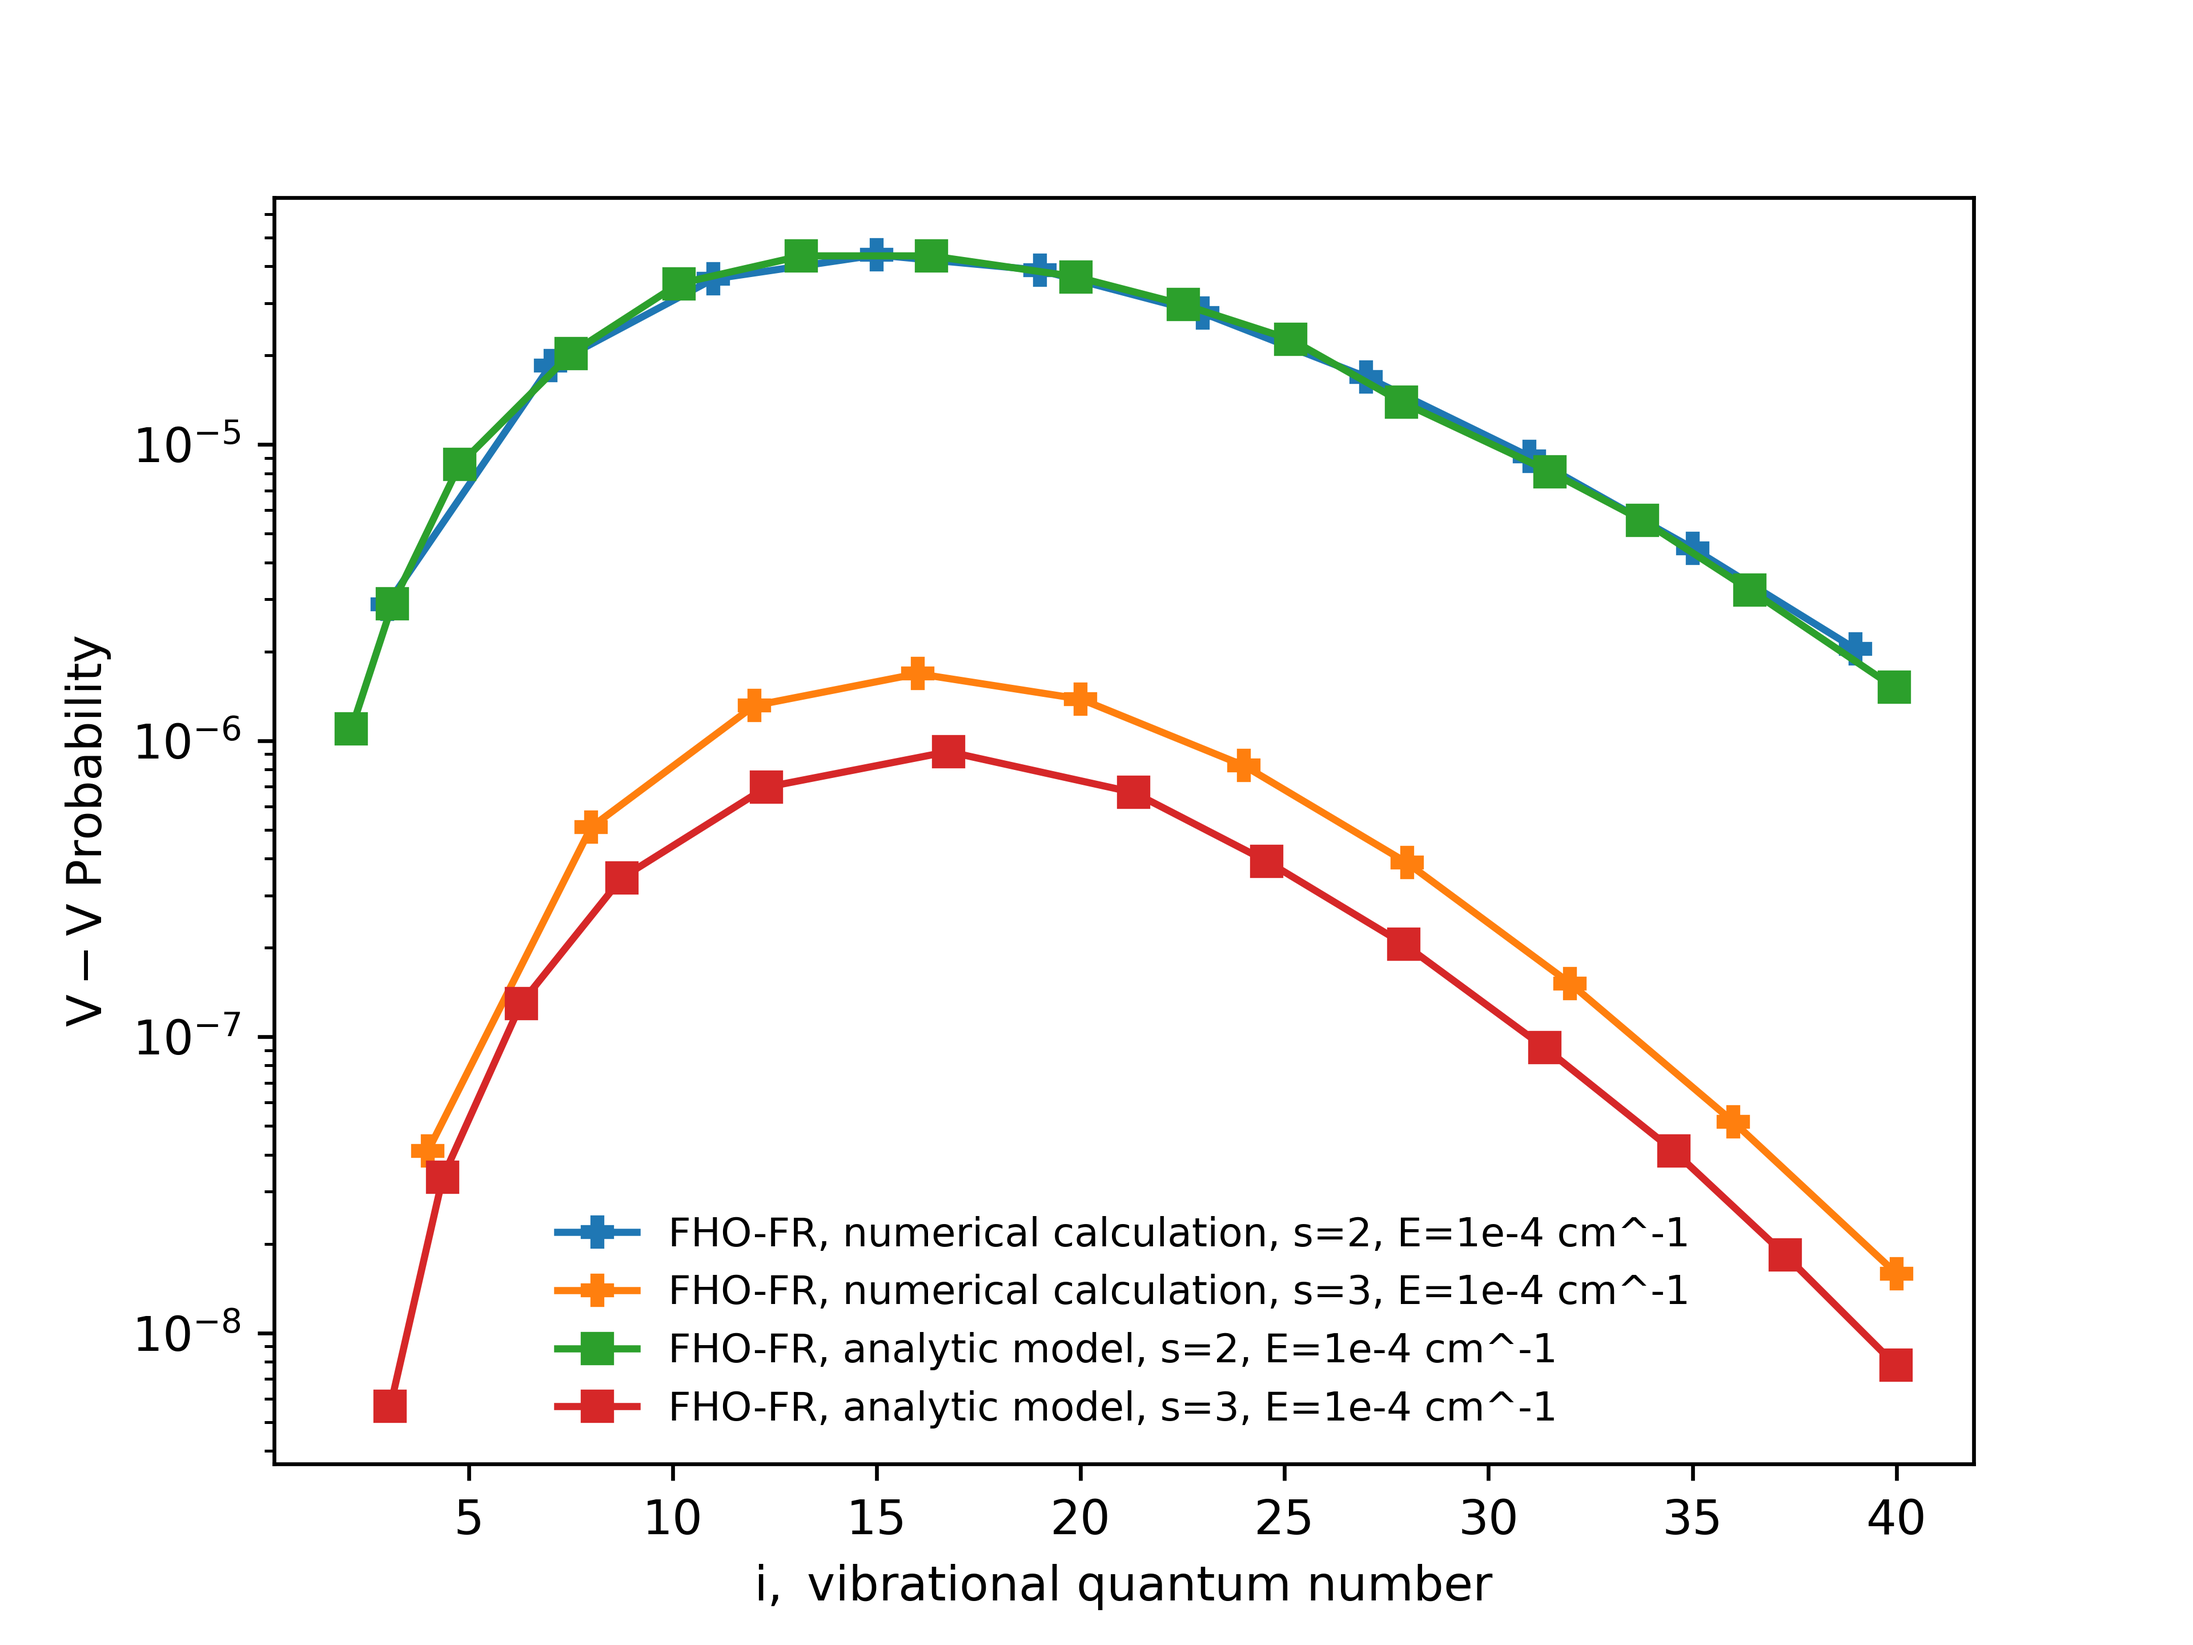
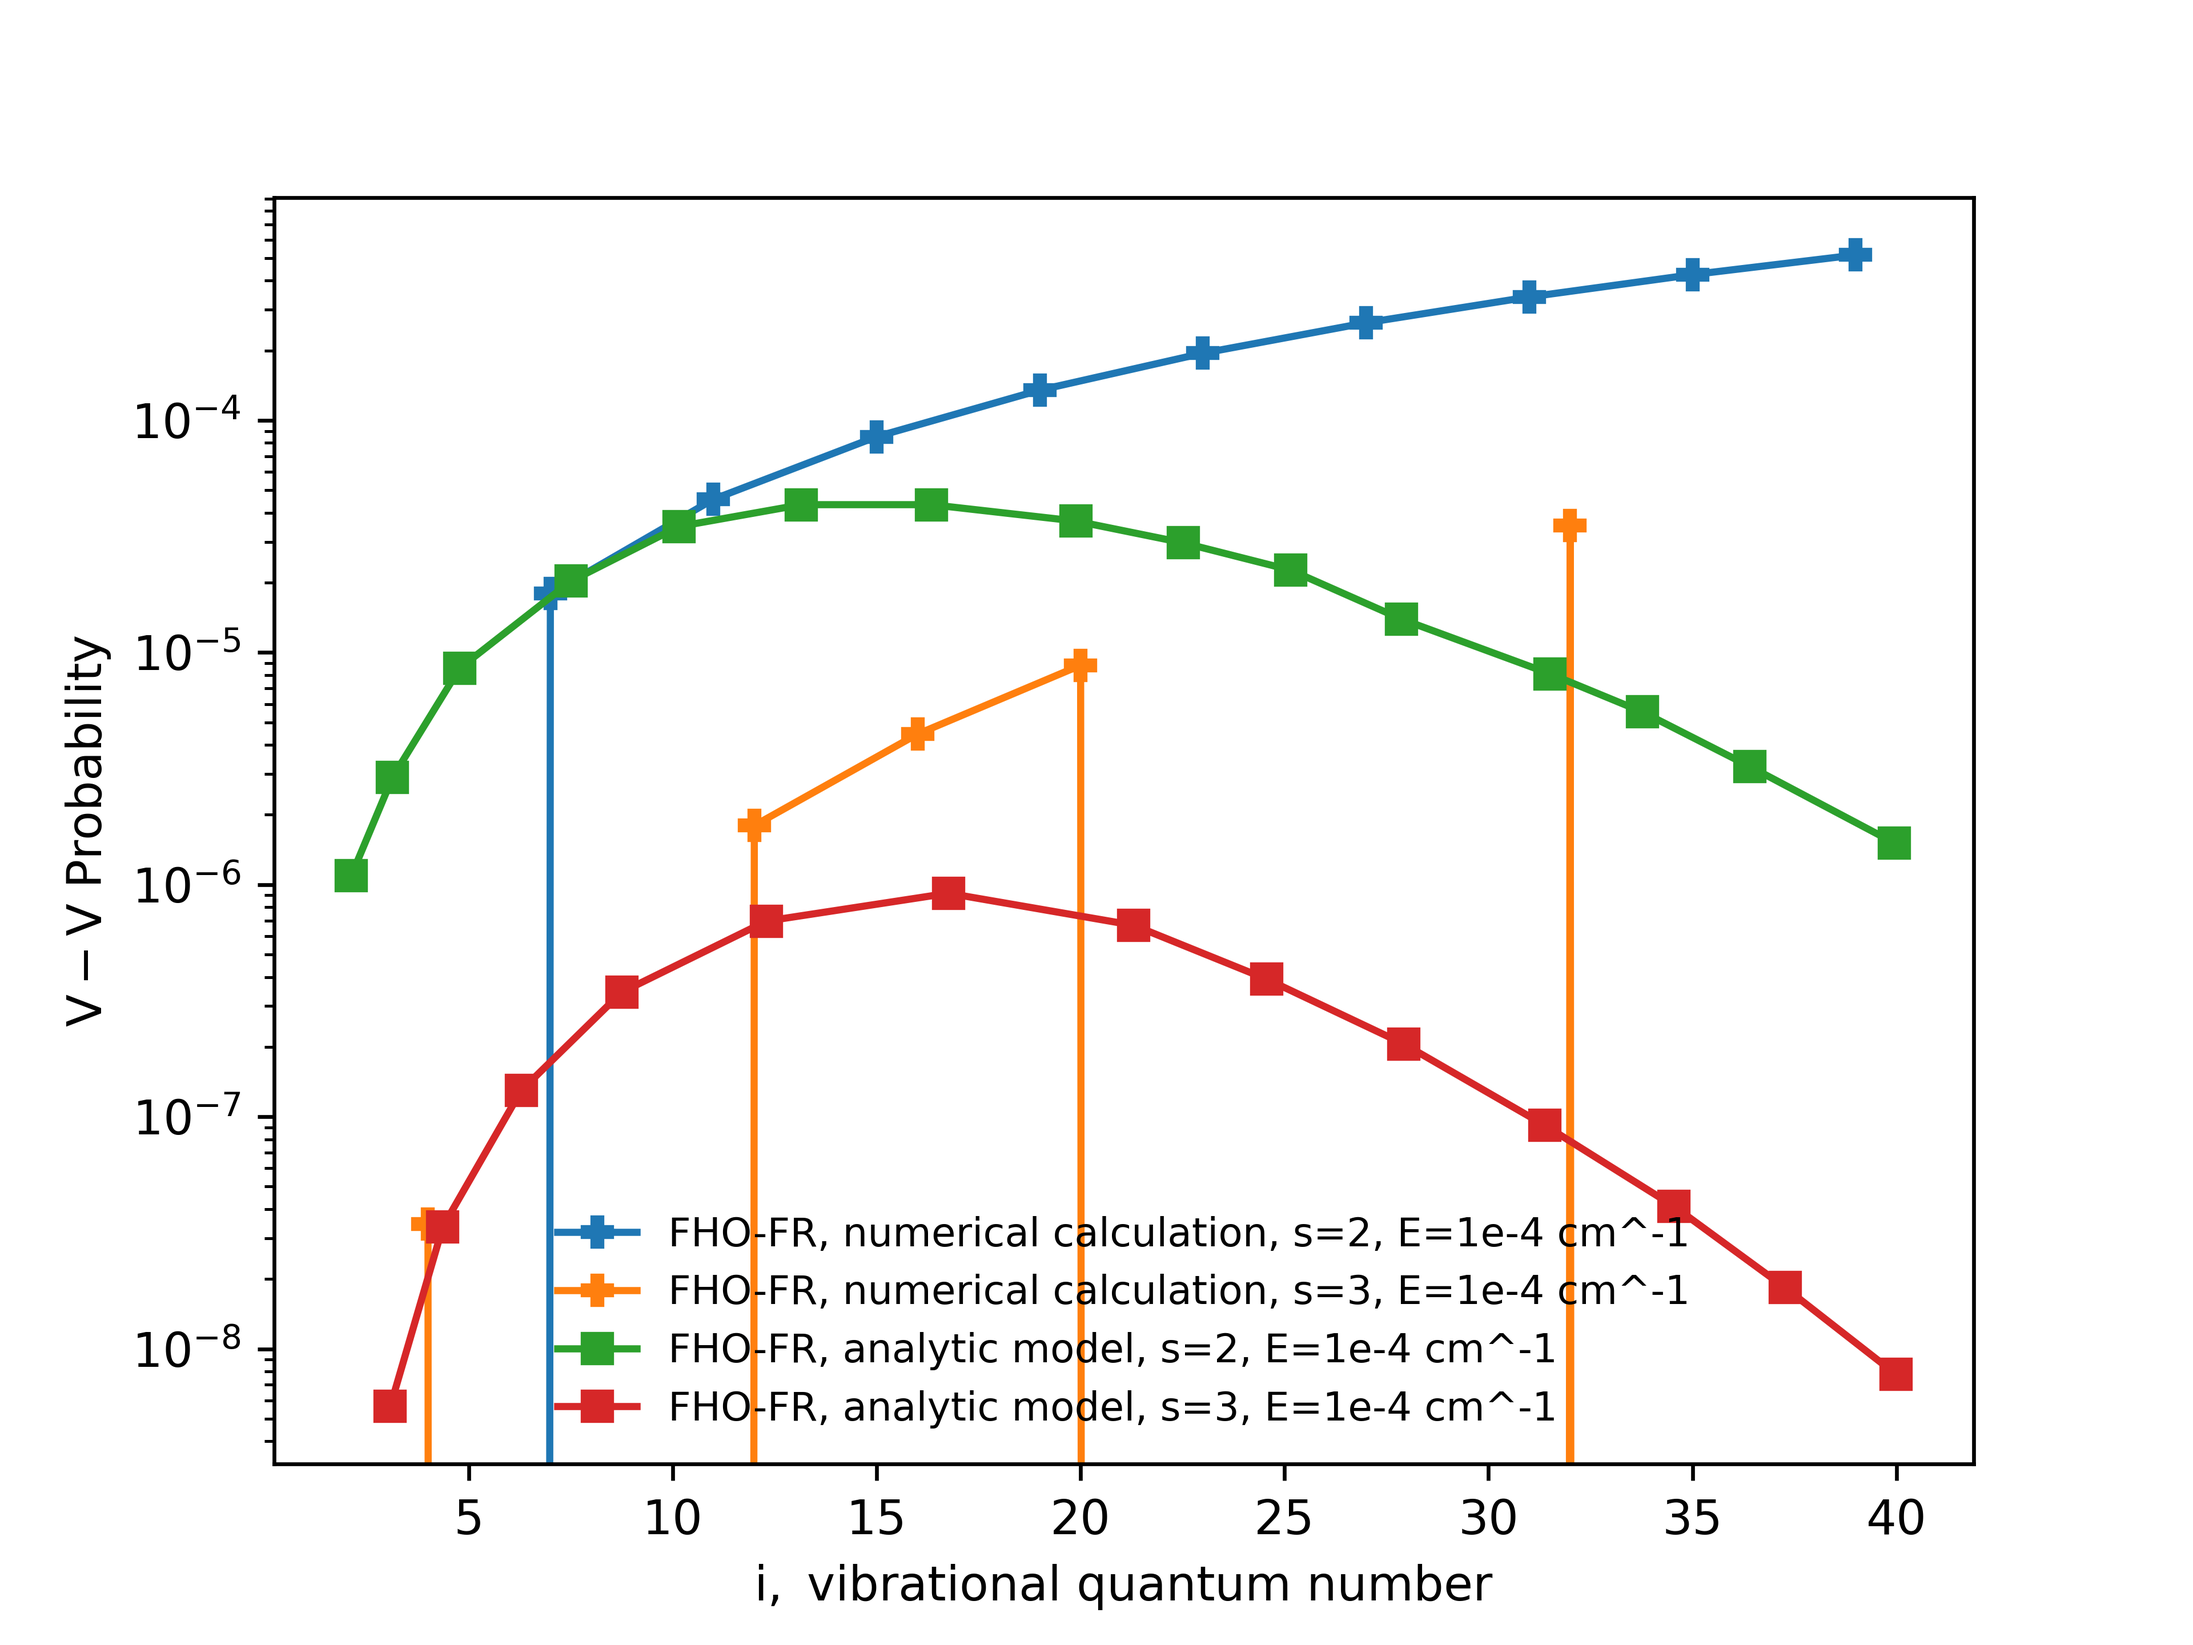
upd

diff --git a/FHO_FR_VV/k_vv_mm.py b/FHO_FR_VV/k_vv_mm.py
@@ -7,21 +7,48 @@ from scipy.special import factorial, gamma
 from FHO_FR_VV.p_vv_mm import *
 from FHO_FR_VV.constants import *
 
-def get_crossection_VSS(velocity: float, collision_reduced_mass: float, VSS_data: VSSData):
-    gref = np.sqrt(2 * k * VSS_data.Tref / collision_reduced_mass) # Reference velocity, m/s
-    return np.pi * VSS_data.dref**2 * (velocity / gref) ** (1 - 2 * VSS_data.omega) / gamma(2.5 - VSS_data.omega)
+# def get_crossection_VSS(velocity: float, collision_reduced_mass: float, VSS_data: VSSData):
+#     gref = np.sqrt(2 * k * VSS_data.Tref / collision_reduced_mass) # Reference velocity, m/s
+#     return np.pi * VSS_data.dref**2 * (velocity / gref) ** (1 - 2 * VSS_data.omega) / gamma(2.5 - VSS_data.omega)
 
-def integrand(x_array, *args):
+# def integrand(x_array, *args):
+#     m1, m2, i1, f1, i2, f2, T_inv_cm = args
+#
+#     # print(x_array.shape)
+#
+#     x_array = np.atleast_1d(x_array)
+#     results = np.zeros_like(x_array)
+#     for idx, x in enumerate(x_array):
+#         E = x * T_inv_cm
+#         results[idx] = p_vv_int(m1, m2, i1, f1, i2, f2, E, 'trapez')
+#     return results * np.exp(-x_array) * np.power(x_array, 3)
+
+
+def integrand(x, *args):
     m1, m2, i1, f1, i2, f2, T_inv_cm = args
 
-    # print(x_array.shape)
+    E = x * T_inv_cm
+    pvv_result = p_vv_int(m1, m2, i1, f1, i2, f2, E, 'trapez')
 
-    x_array = np.atleast_1d(x_array)
-    results = np.zeros_like(x_array)
-    for idx, x in enumerate(x_array):
-        E = x * T_inv_cm
-        results[idx] = p_vv_int(m1, m2, i1, f1, i2, f2, E, 'trapez')
-    return np.power(x_array, 3) * results * np.exp(-x_array)
+    return pvv_result * np.exp(-x) * np.power(x, 3)
+
+
+# def integrand1(x_array, *args):
+#     m1, m2, i1, f1, i2, f2, T_inv_cm = args
+#
+#     m = (m1.mass * m2.mass) / (m1.mass + m2.mass)
+#     x_array = np.atleast_1d(x_array)
+#     probability = np.zeros_like(x_array)
+#     crossection = np.zeros_like(x_array)
+#
+#     for idx1, x1 in enumerate(x_array):
+#         E = np.power(x1, 2) * m / 2
+#         probability[idx1] = p_vv_int(m1, m2, i1, f1, i2, f2, E, 'trapez')
+#
+#     for idx2, x2 in enumerate(x_array):
+#         crossection[idx2] = get_crossection_VSS(x2, m)
+#
+#     return crossection * probability * np.exp(-np.power(x_array, 2) * m / 2 * k * T_inv_cm) * x_array
 
 
 def k_vv_mm(m1, m2, i1, f1, i2, f2, T):
@@ -63,15 +90,17 @@ def k_vv_mm(m1, m2, i1, f1, i2, f2, T):
 
     else:
         args = (m1, m2, i1, f1, i2, f2, T_inv_cm)
+        args1 = (m1, m2, i1, f1, i2, f2, T_K)
         result, error = quad(integrand, 0, np.inf, args=args, epsabs=1e-15, limit=1000)
+        #result1, error1 = quad(integrand1, 0, np.inf, args=args1, epsabs=1e-15, limit=1000)
         # print(error)
 
         # result1 = quad(integrand, 0, 1e10, args=args)
         # result2 = quad(integrand, 1e6, np.inf, args=args)[0]
         # result = result1 + result2
 
-        k_vv = np.pi * (r ** 2) * mean_u * result * 1e6 / 2  # sm^3/s
-        # k_vv = (r ** 2) * mean_u * result * 1e6 / 2  # sm^3/s
+        k_vv = np.pi * (r ** 2) * mean_u * result * 1e6  # sm^3/s
+        #k_vv = np.pi * (r ** 2) * mean_u * result * 1e6   # sm^3/s
 
         return k_vv
 

diff --git a/FHO_FR_VV/particles_data.py b/FHO_FR_VV/particles_data.py
@@ -39,12 +39,14 @@ N2.num_elex_levels = 1                     # number of electronical levels
 N2.num_vibr_levels = [47]                  # number of vibrational levels
 N2.mass = 4.651236272601599e-26            # molecular mass, kg
 N2.diameter = 3.4039e-10                   # m
-N2.we = [235857]                           # DB, 1/m
-N2.wexe = [1432]
+N2.we = [235960]                           # DB, 1/m
+N2.wexe = [1445.6]
 N2.weye = [-0.226]
 
 e_i = levels_e_ex(N2, 0)
 N2.add_ev_i(e_i-e_i[0])
+
+
 
 # print(N2.mass)
 # print(e_i)
@@ -67,38 +69,26 @@ N2.add_ev_i(e_i-e_i[0])
 # print(m1 == m2)
 
 
-class VSSData:
-    def __init__(self, dref, Tref, omega):
-        self.dref = dref  # Reference diameter, m
-        self.Tref = Tref  # Reference temperature, K
-        self.omega = omega  # Viscosity temperature exponent
-
-    def __repr__(self):
-        return f"VSS_data(dref={self.dref:.3e} m, Tref={self.Tref} K, omega={self.omega})"
 
 
-# База данных параметров VSS
-VSS_DATABASE = {
-    "N2-N2": VSSData(dref=4.04e-10, Tref=273, omega=0.686),
-    "N2-O2": VSSData(dref=3.604e-10, Tref=273, omega=0.703),
-    "N2-NO": VSSData(dref=4.391e-10, Tref=273, omega=0.756),
-    "N2-N": VSSData(dref=4.088e-10, Tref=273, omega=0.762),
-    "N2-O": VSSData(dref=3.222e-10, Tref=273, omega=0.702),
-    "O2-N2": VSSData(dref=3.604e-10, Tref=273, omega=0.703),
-    "O2-O2": VSSData(dref=3.896e-10, Tref=273, omega=0.7),
-    "O2-NO": VSSData(dref=4.054e-10, Tref=273, omega=0.718),
-    "O2-N": VSSData(dref=3.721e-10, Tref=273, omega=0.757),
-    "O2-O": VSSData(dref=3.734e-10, Tref=273, omega=0.76),
-    "NO-N2": VSSData(dref=4.391e-10, Tref=273, omega=0.756),
-    "NO-O2": VSSData(dref=4.054e-10, Tref=273, omega=0.718),
-    "NO-NO": VSSData(dref=4.218e-10, Tref=273, omega=0.737),
-    "NO-N": VSSData(dref=4.028e-10, Tref=273, omega=0.788),
-    "NO-O": VSSData(dref=3.693e-10, Tref=273, omega=0.752)
-}
+# class VSSData:
+#     def __init__(self, dref, Tref, omega):
+#         self.dref = dref  # Reference diameter, m
+#         self.Tref = Tref  # Reference temperature, K
+#         self.omega = omega  # Viscosity temperature exponent
+#
+#     def __repr__(self):
+#         return f"VSS_data(dref={self.dref:.3e} m, Tref={self.Tref} K, omega={self.omega})"
 
 
-# Функция для получения параметров
-def get_vss_data(collision_pair):
-    """Get VSS parameters for collision pair"""
-    key = f"{collision_pair.particle1.name}-{collision_pair.particle2.name}"
-    return VSS_DATABASE.get(key)
+# # База данных параметров VSS
+# VSS_DATABASE = {
+#     "N2-N2": VSSData(dref=4.04e-10, Tref=273, omega=0.686)
+# }
+#
+#
+# # Функция для получения параметров
+# def get_vss_data(collision_pair):
+#     """Get VSS parameters for collision pair"""
+#     key = f"{collision_pair.particle1.name}-{collision_pair.particle2.name}"
+#     return VSS_DATABASE.get(key)

diff --git a/fho_fr_test/particles_data.py b/fho_fr_test/particles_data.py
@@ -39,8 +39,8 @@ N2.num_elex_levels = 1                     # number of electronical levels
 N2.num_vibr_levels = [47]                  # number of vibrational levels
 N2.mass = 4.651236272601599e-26            # molecular mass, kg
 N2.diameter = 3.4039e-10                   # m
-N2.we = [235857]                           # DB, 1/m
-N2.wexe = [1432]
+N2.we = [235960]                           # DB, 1/m
+N2.wexe = [1445.6]
 N2.weye = [-0.226]
 
 e_i = levels_e_ex(N2, 0)

diff --git a/FHO_FR_VV/test5.py b/FHO_FR_VV/test5.py
@@ -74,6 +74,8 @@ fho_comp_s4.set_label('FHO-FR, (1, i-1 --> 0, i), T = 3000K')
 # fho_reg.set_label('FHOreg')
 
 # fho_matlab_3000, = ax.plot(data_matlab_3000[0], data_matlab_3000[1], '-^')
+
+
 # fho_matlab_3000.set_label('FHO-FR_matlab_s2')
 
 # fho_matlab_s3, = ax.plot(data_matlab_s3[0], data_matlab_s3[1], '-^')

diff --git a/FHO_FR_VV/p_vv_mm.py b/FHO_FR_VV/p_vv_mm.py
@@ -129,7 +129,7 @@ def p_vv_int(m1, m2, i1, f1, i2, f2, E, method='trapez'):
 
     return result
 
-print(p_vv_int(CO, N2, 1, 1, 1, 1, 10000, 'trapez'))
+# print(p_vv_int(CO, N2, 1, 1, 1, 1, 10000, 'trapez'))
 #
 #
 #
